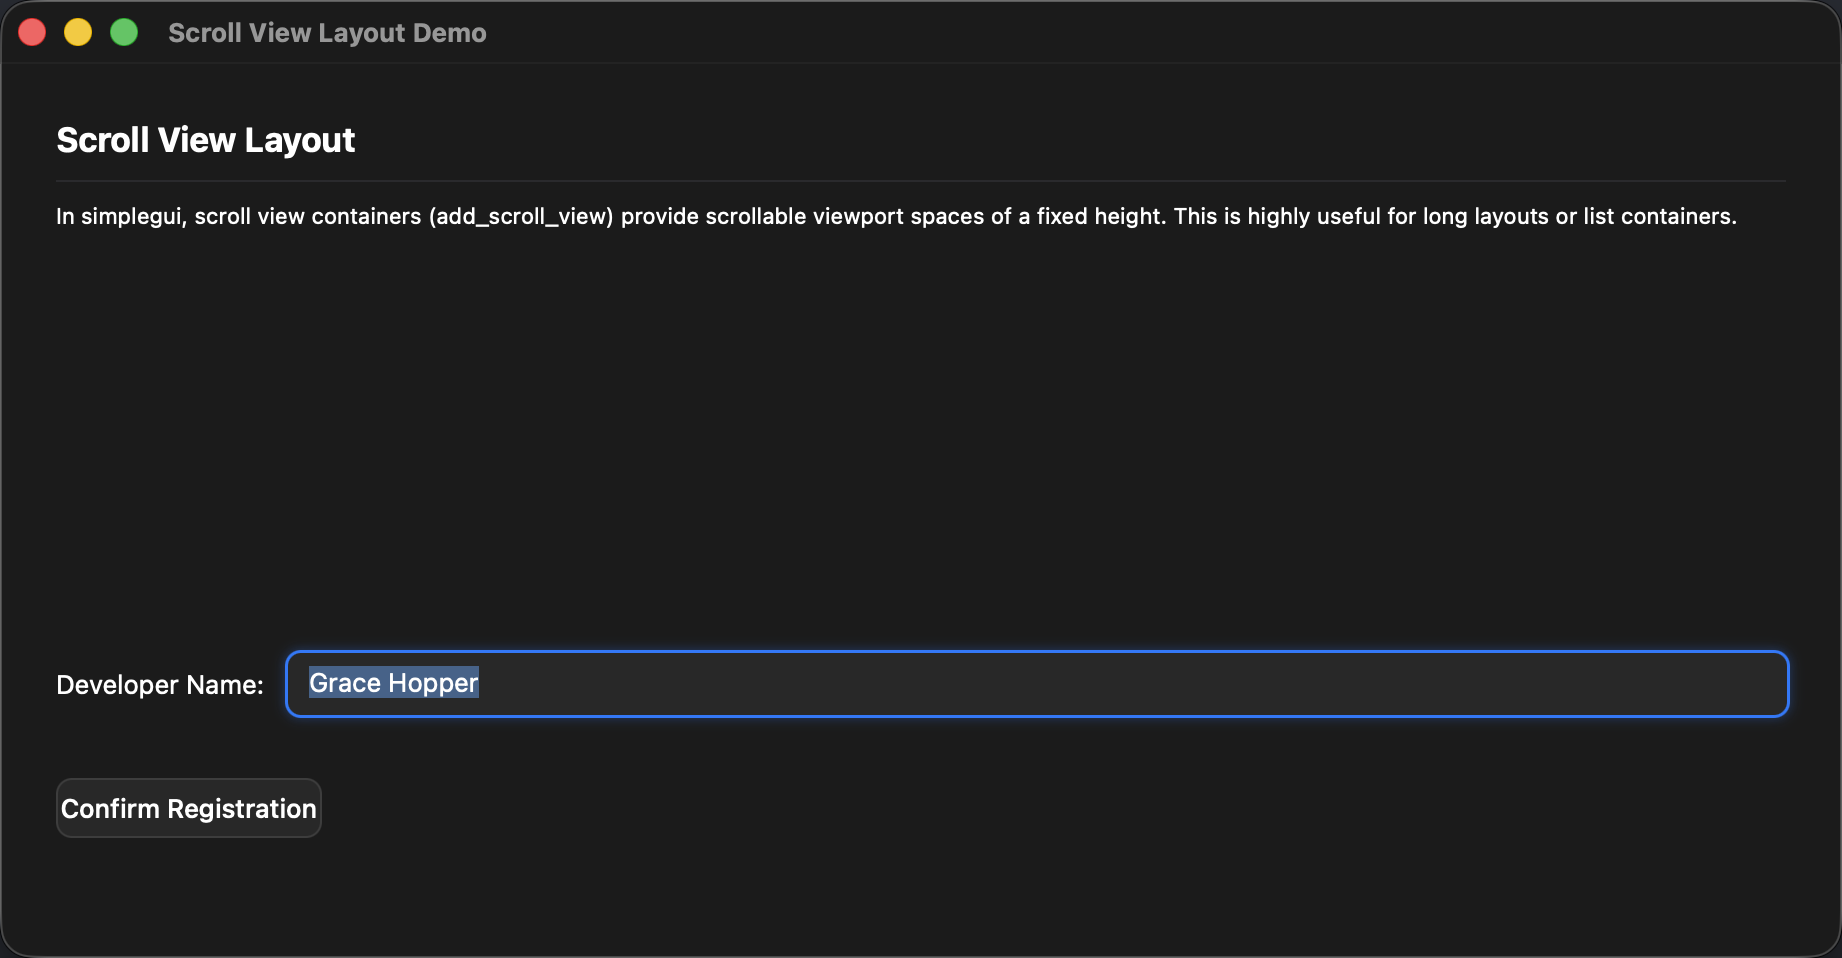
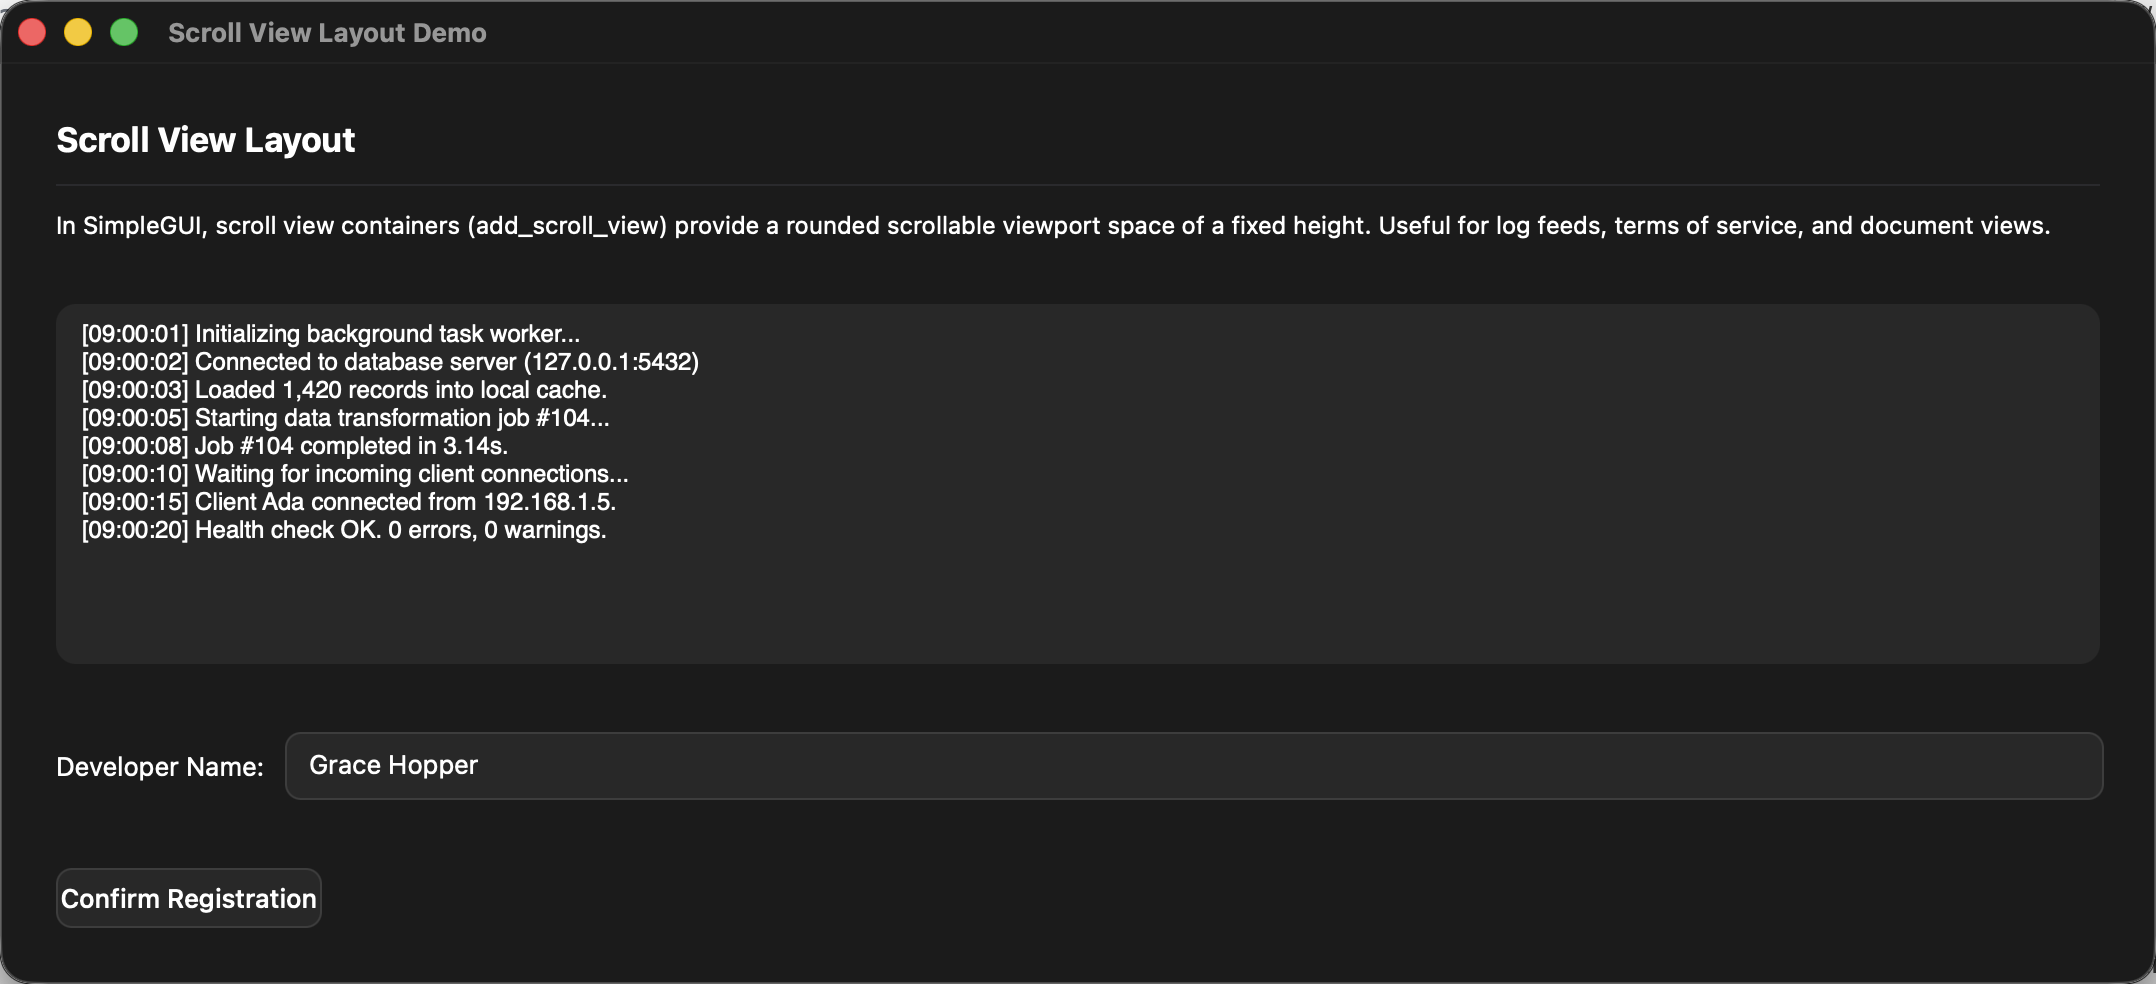
feat: add styling and border radius to NSScrollView and update scroll view demonstrations

diff --git a/simplegui/window.m b/simplegui/window.m
@@ -11186,10 +11186,36 @@ void *window_add_scroll_view_control(main__WindowInfo *info, const char *name, i
     scroll = [[NSScrollView alloc] initWithFrame:NSZeroRect];
     [scroll setHasVerticalScroller:YES];
     [scroll setHasHorizontalScroller:NO];
-    [scroll.heightAnchor constraintEqualToConstant:height].active = YES;
-    NSView *content = [[NSView alloc] initWithFrame:NSZeroRect];
-    [content setFrameSize:NSMakeSize(300, height)];
+    [scroll setAutohidesScrollers:YES];
+    [scroll setDrawsBackground:YES];
+
+    scroll.wantsLayer = YES;
+    scroll.layer.cornerRadius = 8.0;
+    scroll.layer.masksToBounds = YES;
+    scroll.layer.borderWidth = 1.0;
+
+    BOOL isDark = delegate.currentBackgroundColor ? isDarkColor(delegate.currentBackgroundColor) : isSystemDark();
+    if (isDark) {
+      NSColor *bgColor = [NSColor colorWithRed:0.12 green:0.12 blue:0.14 alpha:1.0];
+      NSColor *borderColor = [NSColor colorWithRed:0.25 green:0.25 blue:0.28 alpha:1.0];
+      [scroll setBackgroundColor:bgColor];
+      scroll.layer.backgroundColor = bgColor.CGColor;
+      scroll.layer.borderColor = borderColor.CGColor;
+    } else {
+      NSColor *bgColor = [NSColor colorWithRed:0.97 green:0.97 blue:0.98 alpha:1.0];
+      NSColor *borderColor = [NSColor colorWithRed:0.84 green:0.84 blue:0.88 alpha:1.0];
+      [scroll setBackgroundColor:bgColor];
+      scroll.layer.backgroundColor = bgColor.CGColor;
+      scroll.layer.borderColor = borderColor.CGColor;
+    }
+
+    int h = height > 0 ? height : 150;
+    [scroll.heightAnchor constraintEqualToConstant:h].active = YES;
+
+    FlippedView *content = [[FlippedView alloc] initWithFrame:NSMakeRect(0, 0, 300, h)];
+    content.wantsLayer = YES;
     [scroll setDocumentView:content];
+
     [delegate addControlToLayout:scroll];
     NSString *key = [[nsstring(name) lowercaseString] stringByTrimmingCharactersInSet:[NSCharacterSet whitespaceAndNewlineCharacterSet]];
     delegate.controlsByName[key] = scroll;

diff --git a/README.md b/README.md
@@ -553,17 +553,23 @@ module main
 import simplegui
 
 fn main() {
-    mut win := simplegui.new_simple_window('Scroll View Starter', 500, 360)
-        .set_padding(15)
-        .add_heading('Terms of Service (Scrollable View)')
+    mut win := simplegui.new_simple_window('Scroll View Starter', 520, 440)
+        .set_padding(20)
+        .add_heading('Terms of Service')
 
-    // Scroll view viewport locked to 200px height
-    win.add_scroll_view('scroll_terms', 200)
-        .add_textarea('terms_text', '1. License Agreement...\n2. Privacy Policy...\n3. User Responsibilities...')
-        .height(350) // Textarea height exceeds viewport, creating a scrollbar automatically
+    win.add_label('lbl_sub', 'Please review the license terms below:')
+    win.set_control_font_size('lbl_sub', 12)
+
+    win.add_vertical_spacer(8)
+
+    // Scrollable text area container with 200px viewport height
+    win.add_textarea('terms_text', '1. License Agreement\nBy using this software, you agree to all terms and conditions set forth herein.\n\n2. Privacy Policy\nYour data remains private and stored strictly on your local machine.\n\n3. User Responsibilities\nDo not use this software for unauthorized network scanning or malicious activities.\n\n4. Warranty Disclaimer\nThis software is provided AS-IS without warranty of any kind, express or implied.\n\n5. Termination\nYour right to use this software terminates automatically upon violation of these terms.')
+        .height(200)
+
+    win.add_vertical_spacer(12)
+    win.add_checkbox('accept_chk', 'I have read and agree to the terms', false)
 
     win.add_vertical_spacer(10)
-    win.add_checkbox('accept_chk', 'I have read and agree to the terms', false)
     win.add_button('btn_continue', 'Continue')
        .on_click('btn_continue', fn (mut w simplegui.SimpleWindow) {
            if w.get_checked('accept_chk') {
